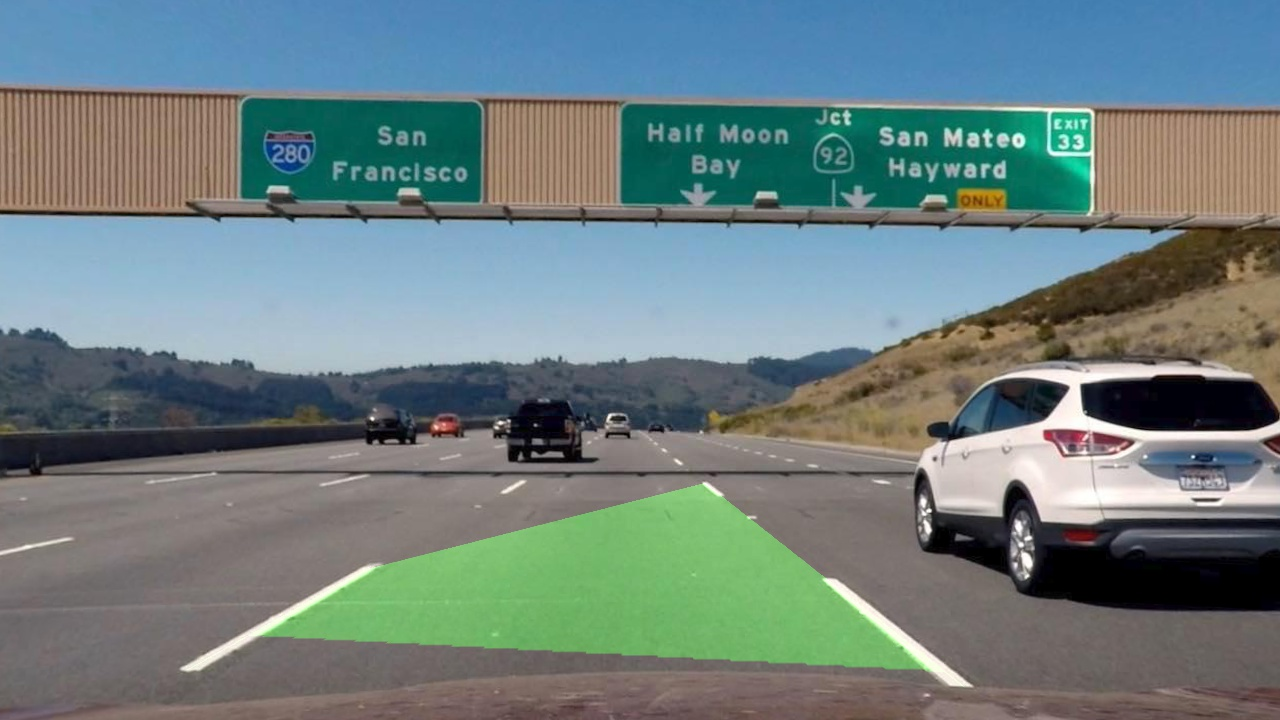
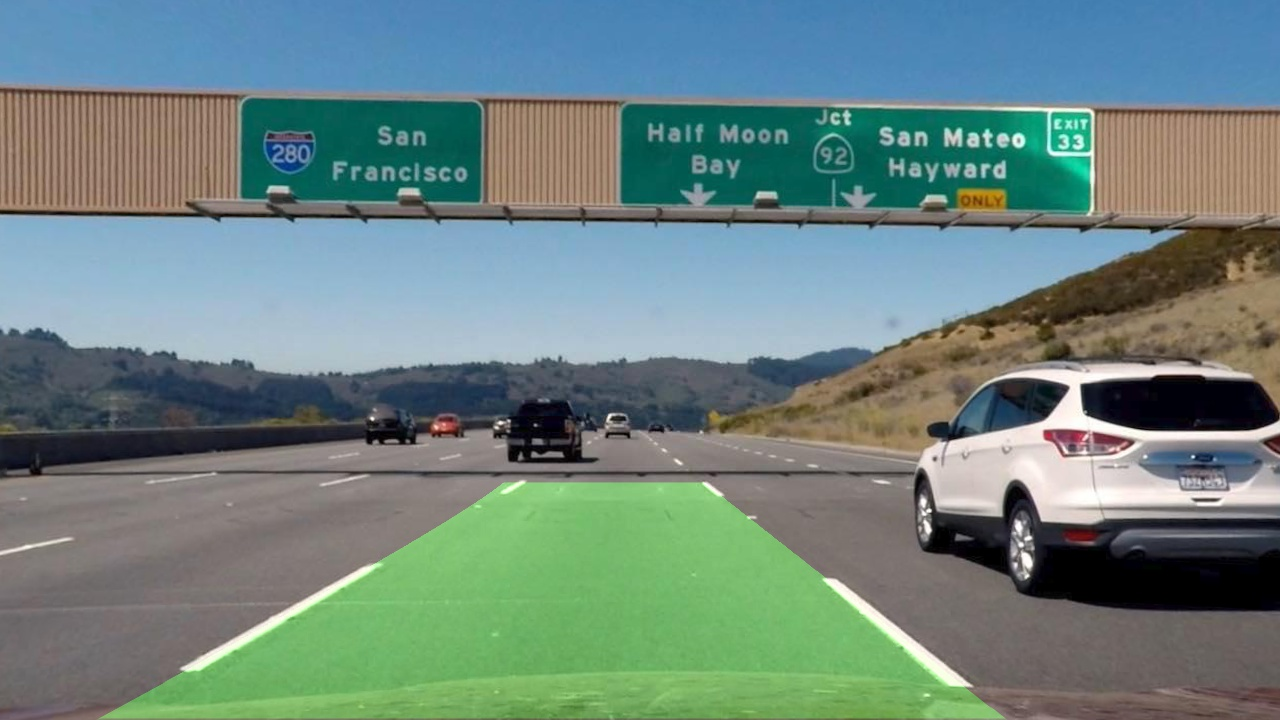
Extend pane projection

Changed region(s): [[0.0625, 0.8861, 0.7812, 1.0], [0.2812, 0.6722, 0.5312, 0.7944]]

diff --git a/util_lane.py b/util_lane.py
@@ -1,20 +1,126 @@
-from util_line import qLine
+import numpy as np
+from util_line import qLine, calc2ndOrderPoly
 
 
 class qLane:
-    def __init__(self):
-        pass
+    def __init__(self, bottom_pixel_pos=None ):
 
-    def update(self, left_line, right_line):
+        self.bottom_pixel_pos = bottom_pixel_pos
 
-        pass
+        self.left_line = qLine()
+        self.right_line = qLine()
+
+
+        self.y_pixels = np.array([])
+
+
+
+    def update(self, left_line, right_line, bottom_pixel_pos):
+
+        if self.isLaneValid(left_line, right_line):
+
+            self.bottom_pixel_pos = bottom_pixel_pos
+
+
+
+            left_top_y = min(left_line.getPixelsY())
+            right_top_y = min(right_line.getPixelsY())
+
+
+            top_y = min(left_top_y, right_top_y) 
+            bottom_y = self.bottom_pixel_pos 
+            self.y_pixels = np.arange(top_y, bottom_y )
+
+            self.updateLeftLine(left_line)
+            self.updateRightLine(right_line)
+
+    def updateLeftLine(self, line):
+
+        fit = line.getFitXCoef()
+        yvals = self.y_pixels        
+
+        fitx = calc2ndOrderPoly(fit, yvals)
+
+        self.left_line.update(fitx, yvals, fit)
+
+
+    def updateRightLine(self, line):
+
+        fit = line.getFitXCoef()
+        yvals = self.y_pixels        
+
+        fitx = calc2ndOrderPoly(fit, yvals)
+
+        self.right_line.update(fitx, yvals, fit)
+
 
     def getLeftLine(self):
-        pass
+        return self.left_line
 
     def getRightLine(self):
-        pass
+        return self.right_line
+
+    def isLaneValid(self, left_line, right_line):
+       return True 
 
 
-    def isLaneValid(self):
-        pass
+def main():
+
+    top_y_left = 100
+    top_y_right = 300
+
+    pixel_num = 200
+
+    top_y = min(top_y_left, top_y_right)
+    bottom_pixel_pos = 1000
+
+    left_line = qLine()
+    x = np.arange(0,0+pixel_num)
+    y = np.arange( top_y_left,top_y_left+pixel_num,1)
+    coef = np.array([1,2,3])
+    left_line.update(x,y,coef)
+
+
+    right_line = qLine()
+    x = np.arange(500,500+pixel_num)
+    y = np.arange(top_y_right,top_y_right+pixel_num, 1)
+    coef = np.array([1,2,3])
+    right_line.update(x,y,coef)
+
+
+
+    lane = qLane(700)
+    lane1 = qLane()
+
+    lane.update( left_line, right_line, bottom_pixel_pos)
+
+    projected_left_line = lane.getLeftLine()
+    projected_right_line = lane.getRightLine()
+
+    print('projected_left_line x shape: ', projected_left_line.getPixelsX().shape)
+    print('projected_right_line x shape: ', projected_right_line.getPixelsX().shape)
+
+    assert(projected_left_line.getPixelsX().size == (bottom_pixel_pos - top_y) ), \
+             "\nprojected_left_line.getPixelsX().size: %d \n (bottom_pixel_pos - top_y) :  %d" % (projected_left_line.getPixelsX().size , (bottom_pixel_pos - top_y) )
+    assert(projected_left_line.getPixelsY().size == (bottom_pixel_pos - top_y) ), \
+             "\nprojected_left_line.getPixelsY().size: %d \n (bottom_pixel_pos - top_y) :  %d" % (projected_left_line.getPixelsY().size , (bottom_pixel_pos - top_y) )
+
+
+
+    assert(projected_right_line.getPixelsX().size == (bottom_pixel_pos - top_y) ) , \
+            "\n projected_right_line.getPixelsX().size: %d \n (bottom_pixel_pos - top_y) :  %d" % (projected_right_line.getPixelsX().size , (bottom_pixel_pos - top_y) )
+
+    assert(projected_right_line.getPixelsY().size == (bottom_pixel_pos - top_y) ) , \
+            "\n projected_right_line.getPixelsY().size: %d \n (bottom_pixel_pos - top_y) :  %d" % (projected_right_line.getPixelsY().size , (bottom_pixel_pos - top_y) )
+
+if __name__ == "__main__": 
+    import time
+    from datetime import timedelta
+
+    time_start = time.time()
+
+    main()
+
+    time_end = time.time()
+    print("Time usage: " + str(timedelta(seconds=int( time_end - time_start))))
+    

diff --git a/util_findLane.py b/util_findLane.py
@@ -220,7 +220,7 @@ def computeLaneLines(np_x_val_left, np_y_val_left, np_x_val_right, np_y_val_righ
 
     return left_fit, left_fitx, right_fit, right_fitx
 
-def visualizeDetectedLane(np_x_val_left, np_y_val_left, np_x_val_right, np_y_val_right, left_fitx, right_fitx, file_to_save = ''):
+def DBG_visualizeDetectedLane(np_x_val_left, np_y_val_left, np_x_val_right, np_y_val_right, left_fitx, right_fitx, file_to_save = ''):
     leftx = np_x_val_left
     rightx = np_x_val_right
 
@@ -234,7 +234,7 @@ def visualizeDetectedLane(np_x_val_left, np_y_val_left, np_x_val_right, np_y_val
     plt.plot(left_fitx, np_y_val_left, color='green', linewidth=3)
     plt.plot(right_fitx, np_y_val_right, color='green', linewidth=3)
     plt.gca().invert_yaxis() # to visualize as we do the images
-    plt.title('visualizeDetectedLane() - polyfit result')
+    plt.title('DBG_visualizeDetectedLane() - polyfit result')
 
     if '' == file_to_save:
         plt.show()   
@@ -254,7 +254,7 @@ def findLaneLines(img_gray, debug=False):
     left_fit, left_fitx, right_fit, right_fitx = computeLaneLines(np_left_x, np_left_y, np_right_x, np_right_y)
 
 
-    left_line = qLine(np_left_x, np_left_y, left_fit, left_fitx)
+    left_line = qLine(np_left_x, np_left_y, left_fit, right_fitx)
     right_line = qLine(np_right_x, np_right_y, right_fit, right_fitx)
 
     return left_line, right_line
@@ -280,7 +280,7 @@ def main():
     print('Rgiht Lane Curvature: ', right_line.getCurvatureRadiusInMeters())
 
 
-    visualizeDetectedLane(  left_line.getPixelsX(),  left_line.getPixelsY(), 
+    DBG_visualizeDetectedLane(  left_line.getPixelsX(),  left_line.getPixelsY(), 
                             right_line.getPixelsX(), right_line.getPixelsY(), 
                             left_line.getFittedX(), right_line.getFittedX() )
 
@@ -297,7 +297,7 @@ def main():
 
         file_loc = 'udacity/output_images/' + 'lane_computed/' + 'computed_'+ filename
 
-        visualizeDetectedLane(  left_line.getPixelsX(),  left_line.getPixelsY(), 
+        DBG_visualizeDetectedLane(  left_line.getPixelsX(),  left_line.getPixelsY(), 
                                 right_line.getPixelsX(), right_line.getPixelsY(), 
                                 left_line.getFittedX(), right_line.getFittedX() ,
                                 file_to_save=file_loc   )

diff --git a/util_vision.py b/util_vision.py
@@ -2,6 +2,7 @@ import numpy as np
 from numpy.linalg import inv
 import cv2
 from util_line import qLine
+from util_lane import qLane
 from util_findLane import findLaneLines
 
 def extractSatuCh(img):
@@ -152,8 +153,11 @@ class qVision:
     def __init__(self):
 
 
+        # perspective transformation matrix for birds' eye view 
+        self.M = None  
 
-        self.M = None
+        # current lane 
+        self.lane = qLane()
 
 
     def processImg(self, img_rgb, debug=False):
@@ -275,7 +279,12 @@ class qVision:
         # cv2.waitKey()
         left_line, right_line = findLaneLines(img_bgr_procd_birdview)
 
-        img_imagined_lines = self.imaginLines(img_bgr, left_line, right_line)
+        self.lane.update( left_line, right_line, bottom_pixel_pos=img_bgr.shape[0])
+
+        projected_left_line = self.lane.getLeftLine()
+        projected_right_line = self.lane.getRightLine()
+
+        img_imagined_lines = self.imaginLines(img_bgr, projected_left_line, projected_right_line)
 
         return img_imagined_lines
 
@@ -327,6 +336,25 @@ def DBG_CompareThreeGrayImages(img1, img2, img3, title1, title2, title3 ):
 
 def main():
 
+
+    #load camera
+    from util_camera import qCamera
+
+    #save camera data
+    import pickle
+    import os.path
+    if os.path.isfile('calibrated_camera.pickle') :
+        with open('calibrated_camera.pickle', 'rb') as handle:
+            camera = pickle.load(handle)
+    else: 
+        camera = qCamera()
+        camera.calibrateSamples('udacity/camera_cal/')
+
+        with open('calibrated_camera.pickle', 'wb') as handle:
+            pickle.dump(camera, handle, protocol=pickle.HIGHEST_PROTOCOL)
+
+
+    ##############################3
     vision = qVision()
 
     import glob
@@ -358,10 +386,7 @@ def main():
     ##########################################
     # Test for Birds Eye View Transformation
     ##########################################
-    from util_camera import qCamera
-    camera = qCamera()
 
-    camera.calibrateSamples('udacity/camera_cal/')
         
     img_distorted = cv2.imread('udacity/test_images/straight_lines1.jpg')
     img_undist = camera.undistortImg(img_distorted)

diff --git a/util_line.py b/util_line.py
@@ -1,8 +1,18 @@
 import numpy as np
 
+
+def calc2ndOrderPoly(fit_coef, yvals):
+
+    assert(fit_coef.size == 3)
+    fitx = fit_coef[0]*yvals**2 + fit_coef[1]*yvals + fit_coef[2]
+
+    return fitx
+
+
+
 #to keep track of recent detections and to perform sanity checks.
 class qLine:
-    def __init__(self, np_x, np_y,  np_fit_coef_x, np_fitx):
+    def __init__(self, np_x=None, np_y=None,  np_fit_coef_x=None, np_fitx = None):
         self.np_x = np_x
         self.np_y = np_y
         self.np_fitx = np_fitx
@@ -32,7 +42,6 @@ class qLine:
     def getFittedX(self):
         return self.np_fitx
 
-
     def getFitXCoef(self):
         return self.np_fit_coef_x
 
@@ -45,9 +54,25 @@ class qLine:
     # Checking that they have similar curvature
     # Checking that they are separated by approximately the right distance horizontally
     # Checking that they are roughly parallel
-    def update(self):
-        pass
+    def update(self, np_x, np_y,  np_fit_coef_x):
 
+        if self.isLineValie(np_x, np_y,  np_fit_coef_x):
+            self.np_x = np_x
+            self.np_y = np_y
+            self.np_fit_coef_x = np_fit_coef_x
+            self.np_fitx = calc2ndOrderPoly(np_fit_coef_x, np_y )
+
+    def updateWithObj(self,qline):
+
+        np_x = qline.getPixelsX()
+        np_y = qline.getPixelsY()
+        np_fit_coef_x = qline.getFitXCoef()
+
+        self.update( np_x, np_y,  np_fit_coef_x )
+
+
+    def isLineValie(self, np_x, np_y,  np_fit_coef_x):
+        return True
 
     def getCurvatureRadiusInMeters(self):
         """Calculate curvature
